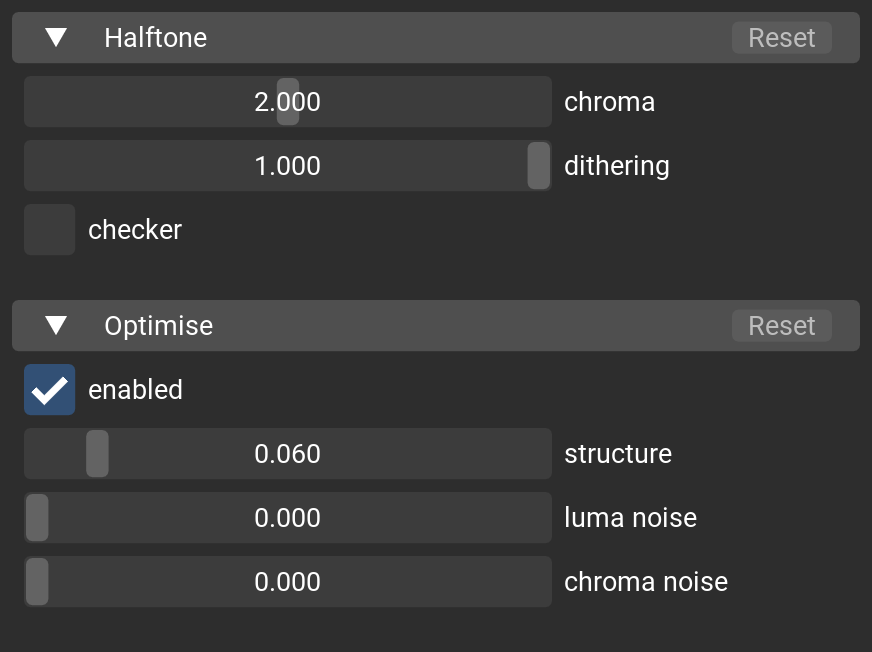
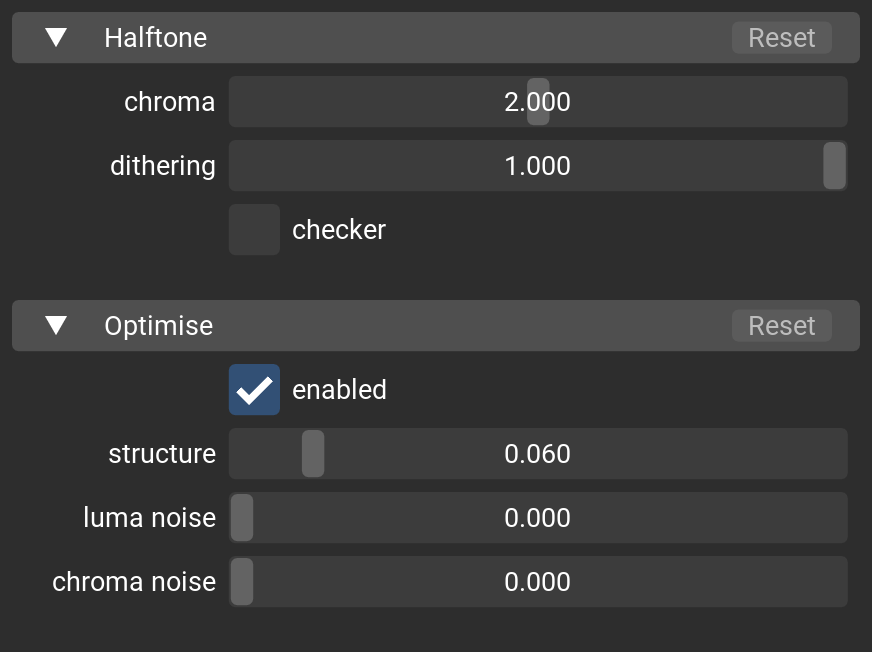
CHANGELOG: #24's fields and #25's slider steps; the pictures retaken with the labels on the left
docs/screenshots.py finds the method and matrix combos by their hidden labels, as the UI tests do since #24.

Claude-Session: https://claude.ai/code/session_01LD28UwYSy5EQZZBPjBZYX9

diff --git a/docs/screenshots.py b/docs/screenshots.py
@@ -24,7 +24,7 @@ IMAGES = DOCS.parent / 'tests' / 'images'
 IMAGE = IMAGES / 'anubis.png'
 OUT = DOCS / 'images'
 SCALE = 2              # screen px per 96 dpi px
-SIZE = (2000, 1150)    # the window at 96 dpi: Convert wide enough for its labels
+SIZE = (2000, 1150)    # the window at 96 dpi: docks wide enough for the fields to read easily
 MARGIN = 6             # 96 dpi px around a panel
 GALLERY_ROW = 5        # gallery images a row
 SECTIONS = 2           # the pattern combo's sections shown
@@ -125,7 +125,7 @@ def preview(ctx, dx, dy):
 def metric_method(ctx):
     settled(ctx)
     opened(ctx, '//Convert', 'metric')
-    ctx.item_click('metric/method')
+    ctx.item_click('metric/##method')
     ctx.yield_(4)
     shot(ctx, 'metric-method', block(ctx, '//Convert', 'metric'), window('##Combo_00'))
     ctx.popup_close_all()   # a combo takes no Esc: keyboard nav is off
@@ -151,7 +151,7 @@ def halftone_optimise(ctx):
 def pattern_combo(ctx):
     settled(ctx)
     opened(ctx, '//Convert', 'halftoner')
-    ctx.item_click('halftoner/matrix')
+    ctx.item_click('halftoner/##matrix')
     ctx.yield_(4)
     x0, y0, x1, _ = window('##Combo_00')
     last = list(gallery.MATRIX_GROUPS.values())[SECTIONS - 1][-1]

diff --git a/CHANGELOG.md b/CHANGELOG.md
@@ -79,6 +79,10 @@ requests in its GitHub release. The pictures are made by `docs/screenshots.py`.
 
 ### Interface
 
+- Fields fill the dock, Lightroom's way: a label in a right-aligned column before its control, cut with … in a narrow
+  dock with the whole name in its tooltip. Block titles stop short of the Reset button.
+- Float sliders move in round steps, so 0.5, 0.25 or 0.1 can be set on a 0..1 slider; a typed value snaps too. A double
+  click resets a slider to its default, as one undo step.
 - An edit while DBS runs keeps the last picture on screen; the preview no longer flashes an older one.
 - Popups and windows are opaque in every theme.
 - PhotoshopStyle is the default theme. An installed app keeps the theme it last ran with; View > Theme picks another.
